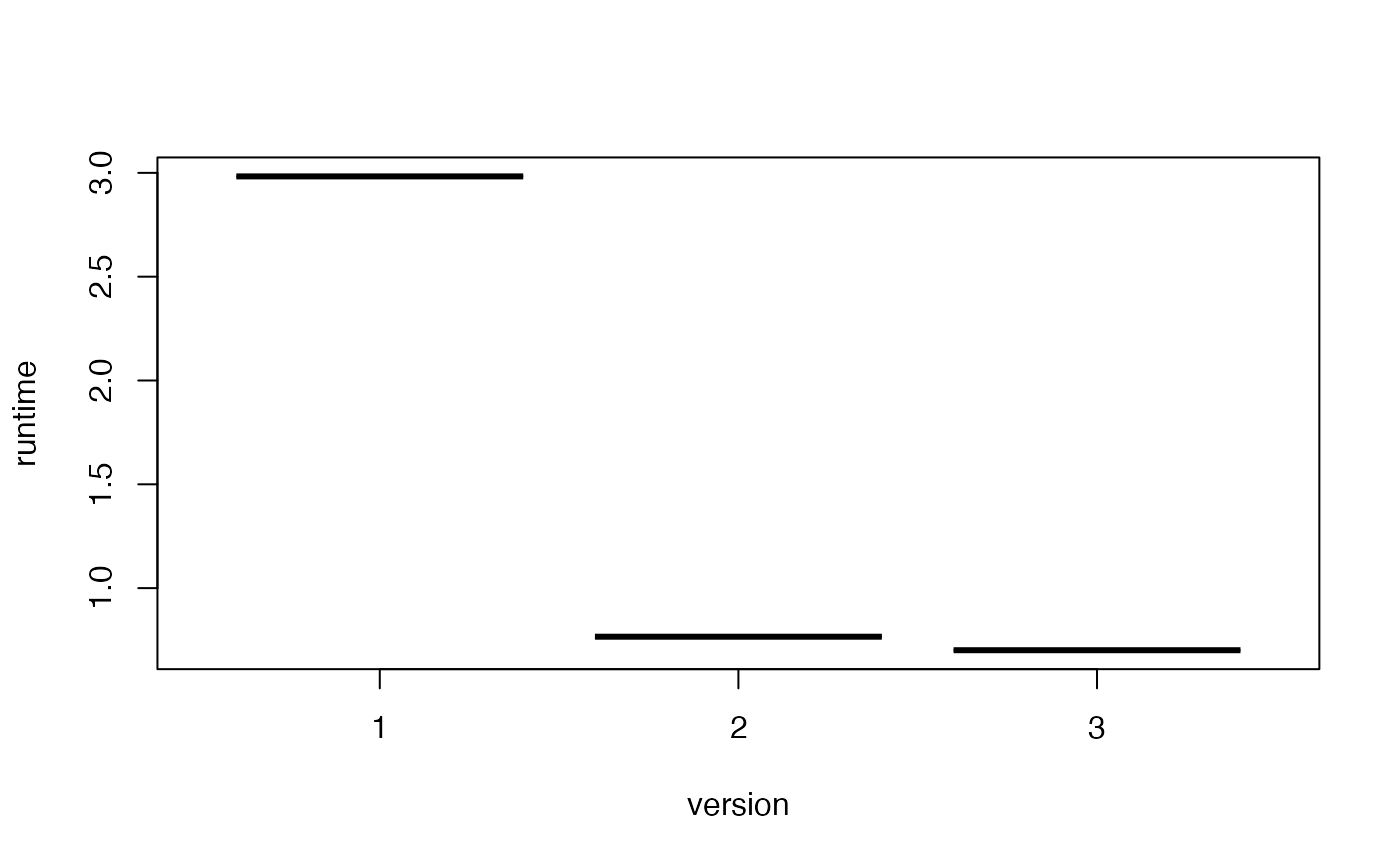
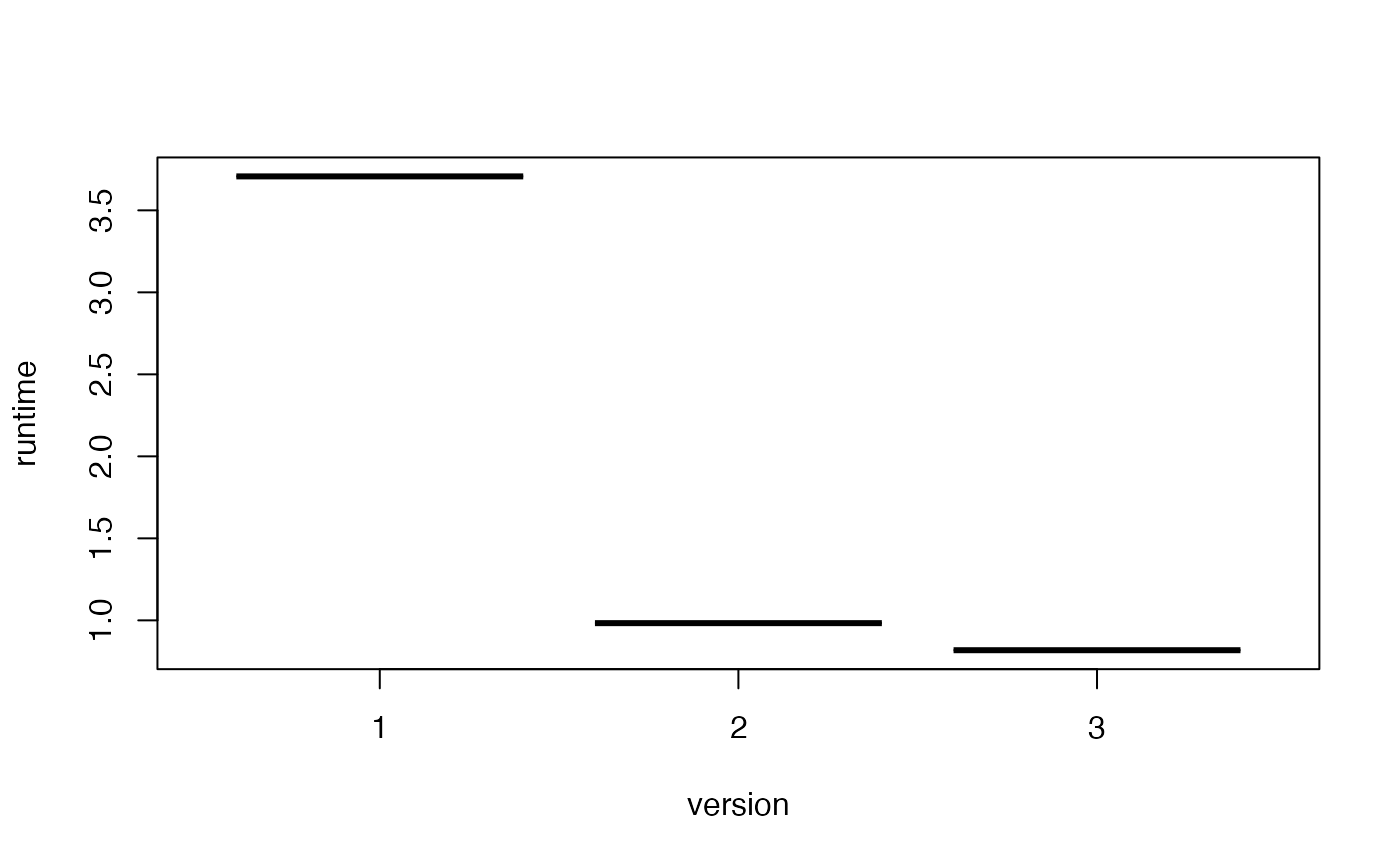
Built site for kwb.graph: 0.1.0@78a2ac8

diff --git a/articles/tutorial.html b/articles/tutorial.html
@@ -134,11 +134,11 @@
 <span class="co">#&gt; run 1 / 1</span>
   
   <span class="fu"><a href="https://rdrr.io/r/base/cat.html">cat</a></span><span class="op">(</span><span class="st">"mean runtime with R-functions:"</span>, <span class="fu"><a href="https://rdrr.io/r/base/mean.html">mean</a></span><span class="op">(</span><span class="va">runtime.R</span><span class="op">)</span>, <span class="st">"\n"</span><span class="op">)</span>
-<span class="co">#&gt; mean runtime with R-functions: 2.983</span>
+<span class="co">#&gt; mean runtime with R-functions: 3.707</span>
   <span class="fu"><a href="https://rdrr.io/r/base/cat.html">cat</a></span><span class="op">(</span><span class="st">"mean runtime with C-functions(1):"</span>, <span class="fu"><a href="https://rdrr.io/r/base/mean.html">mean</a></span><span class="op">(</span><span class="va">runtime.C1</span><span class="op">)</span>, <span class="st">"\n"</span><span class="op">)</span>  
-<span class="co">#&gt; mean runtime with C-functions(1): 0.766</span>
+<span class="co">#&gt; mean runtime with C-functions(1): 0.983</span>
   <span class="fu"><a href="https://rdrr.io/r/base/cat.html">cat</a></span><span class="op">(</span><span class="st">"mean runtime with C-functions(2):"</span>, <span class="fu"><a href="https://rdrr.io/r/base/mean.html">mean</a></span><span class="op">(</span><span class="va">runtime.C2</span><span class="op">)</span>, <span class="st">"\n"</span><span class="op">)</span>  
-<span class="co">#&gt; mean runtime with C-functions(2): 0.701</span>
+<span class="co">#&gt; mean runtime with C-functions(2): 0.818</span>
   
   <span class="va">runtimeData</span> <span class="op">&lt;-</span> <span class="fu"><a href="https://rdrr.io/r/base/cbind.html">rbind</a></span><span class="op">(</span>
     <span class="fu"><a href="https://rdrr.io/r/base/data.frame.html">data.frame</a></span><span class="op">(</span>version<span class="op">=</span><span class="fl">1</span>, runtime<span class="op">=</span><span class="va">runtime.R</span><span class="op">)</span>,

diff --git a/reference/exampleNetwork.html b/reference/exampleNetwork.html
@@ -137,7 +137,7 @@
 
     <h2 class="hasAnchor" id="value"><a class="anchor" href="#value"></a>Value</h2>
 
-    <p>#' data frame with 10040 observations of two variables. The variables
+    <p>data frame with 10040 observations of two variables. The variables
   <code>us_node_id</code> (upstream node ID) and <code>ds_node_id</code> (downstream node
   ID) define the connections between links. They are needed if the list of
   connected links upstream of each node is to be calculated by means of
